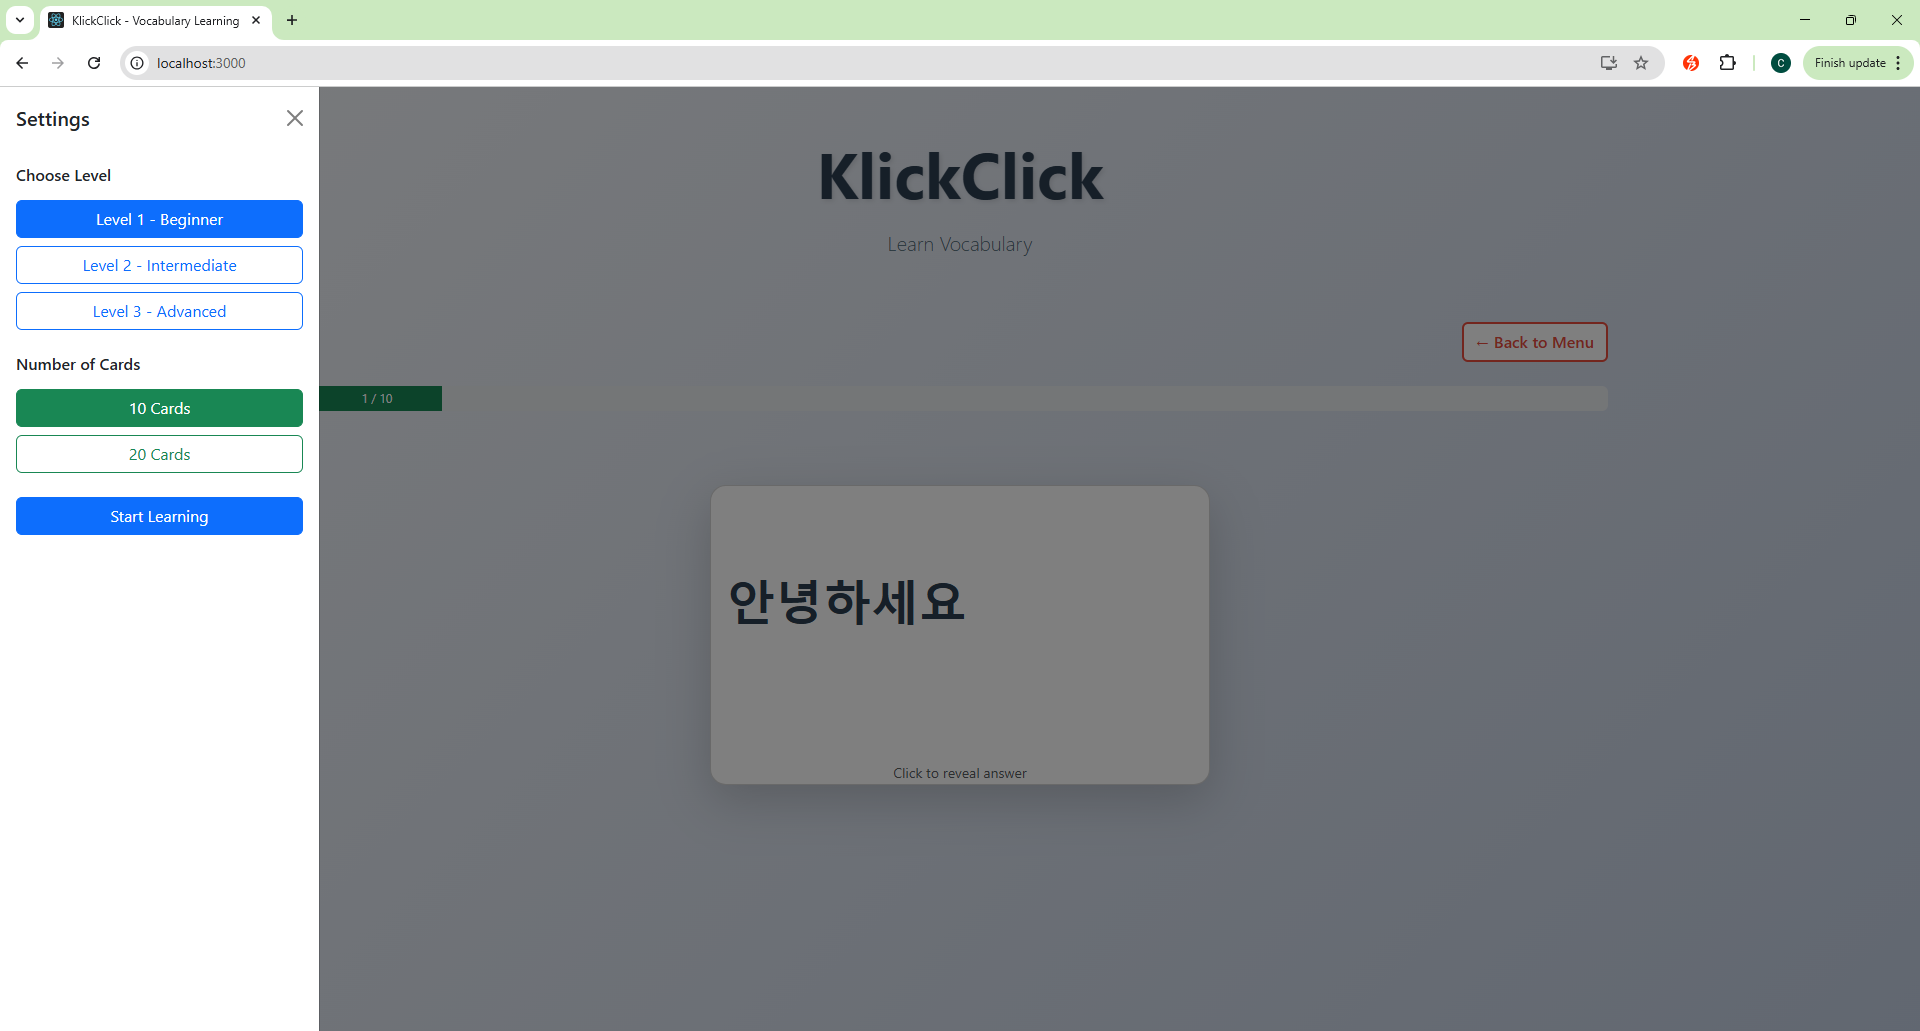
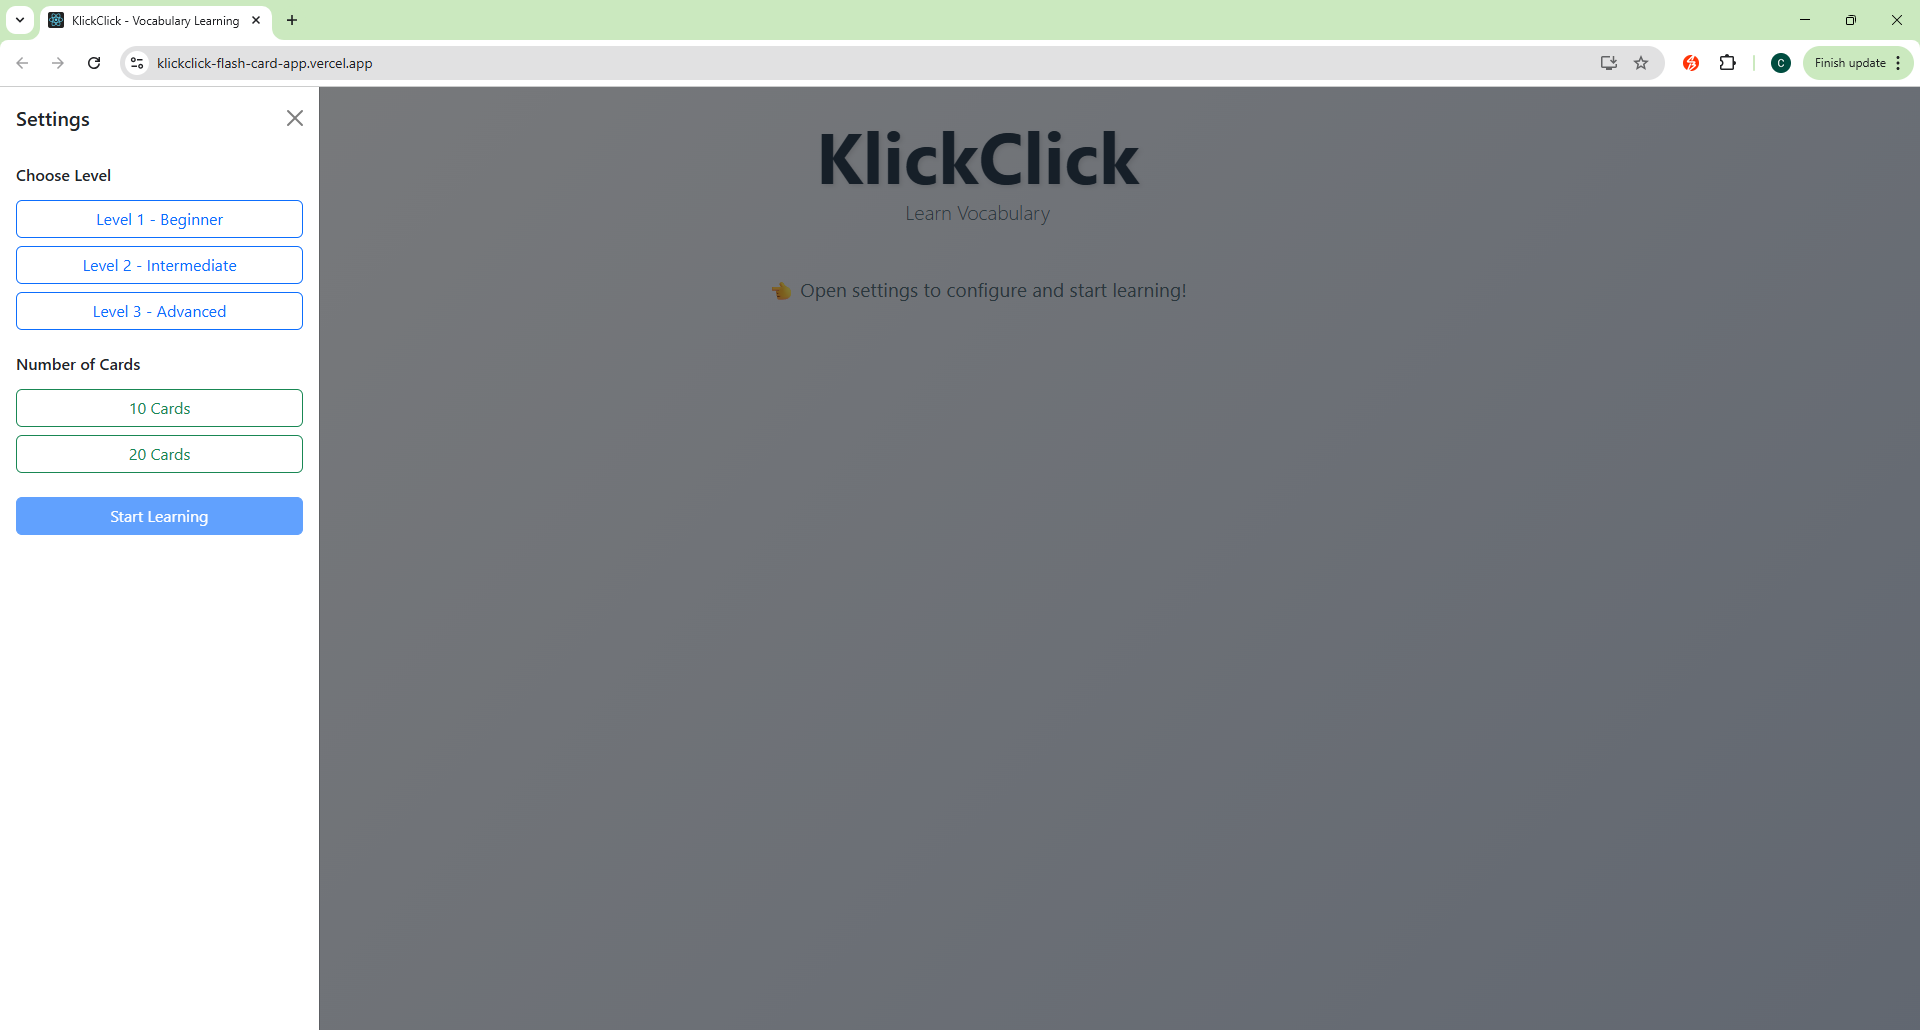
Update documentation and screenshots to reflect UI changes

diff --git a/README.md b/README.md
@@ -93,4 +93,4 @@ The app will open in your browser at [http://localhost:3000](http://localhost:30
 6. **Complete Your Session**
    - Continue through all cards in your session
    - When finished, you'll see a completion message
-   - Click "Back to Menu" to start a new session
+   - Open the hamburger menu to start a new session with different settings
